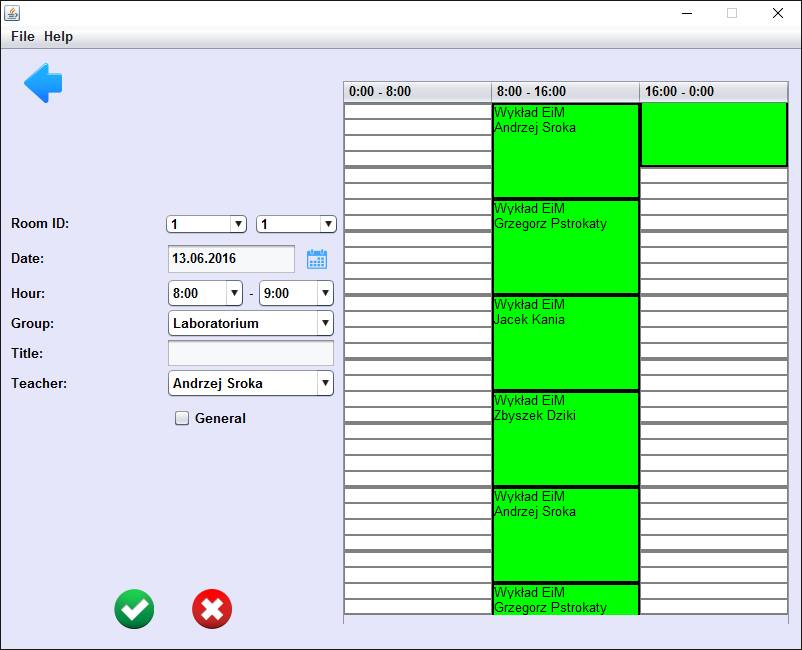
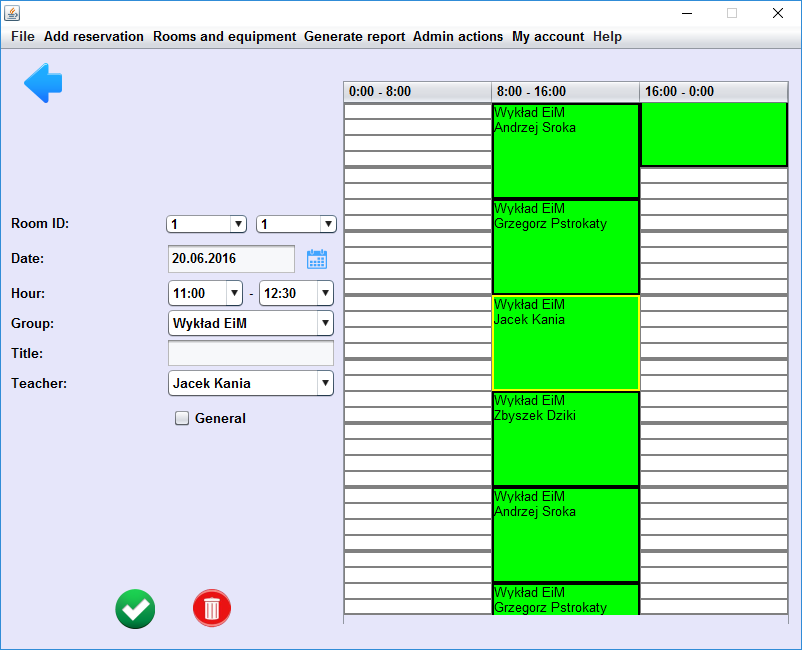
zmiana przycisków i update screenów w tutorialu

diff --git a/ReservationsTestClient/src/java/pl/polsl/reservations/client/views/WeekDataView.java b/ReservationsTestClient/src/java/pl/polsl/reservations/client/views/WeekDataView.java
@@ -132,7 +132,7 @@ public class WeekDataView extends JPanel {
             ButtonStyle.setStyle(nextBtn, img2);
             Image img3 = ImageIO.read(WeekDataView.class.getResource("/resources/calendar.png"));
             ButtonStyle.setStyle(calendarBtn, img3);
-            Image img4 = ImageIO.read(WeekDataView.class.getResource("/resources/back.png"));
+            Image img4 = ImageIO.read(WeekDataView.class.getResource("/resources/back_logout.png"));
             ButtonStyle.setStyle(backBtn, img4);
         } catch (IOException ex) {
             System.out.println("RESOURCE ERROR: " + ex.toString());
